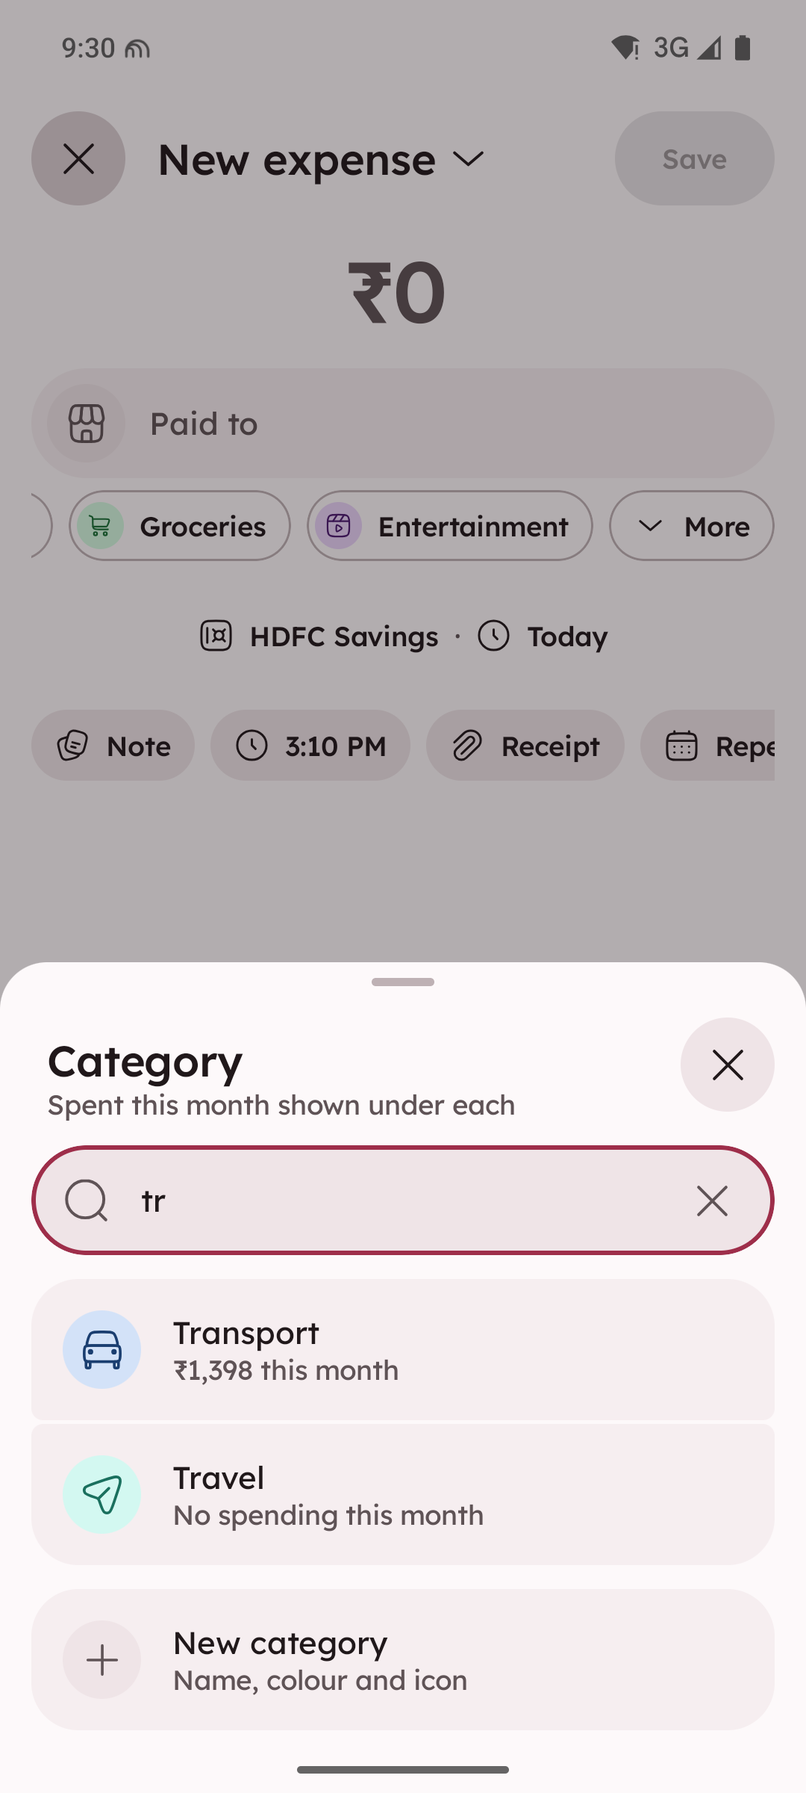
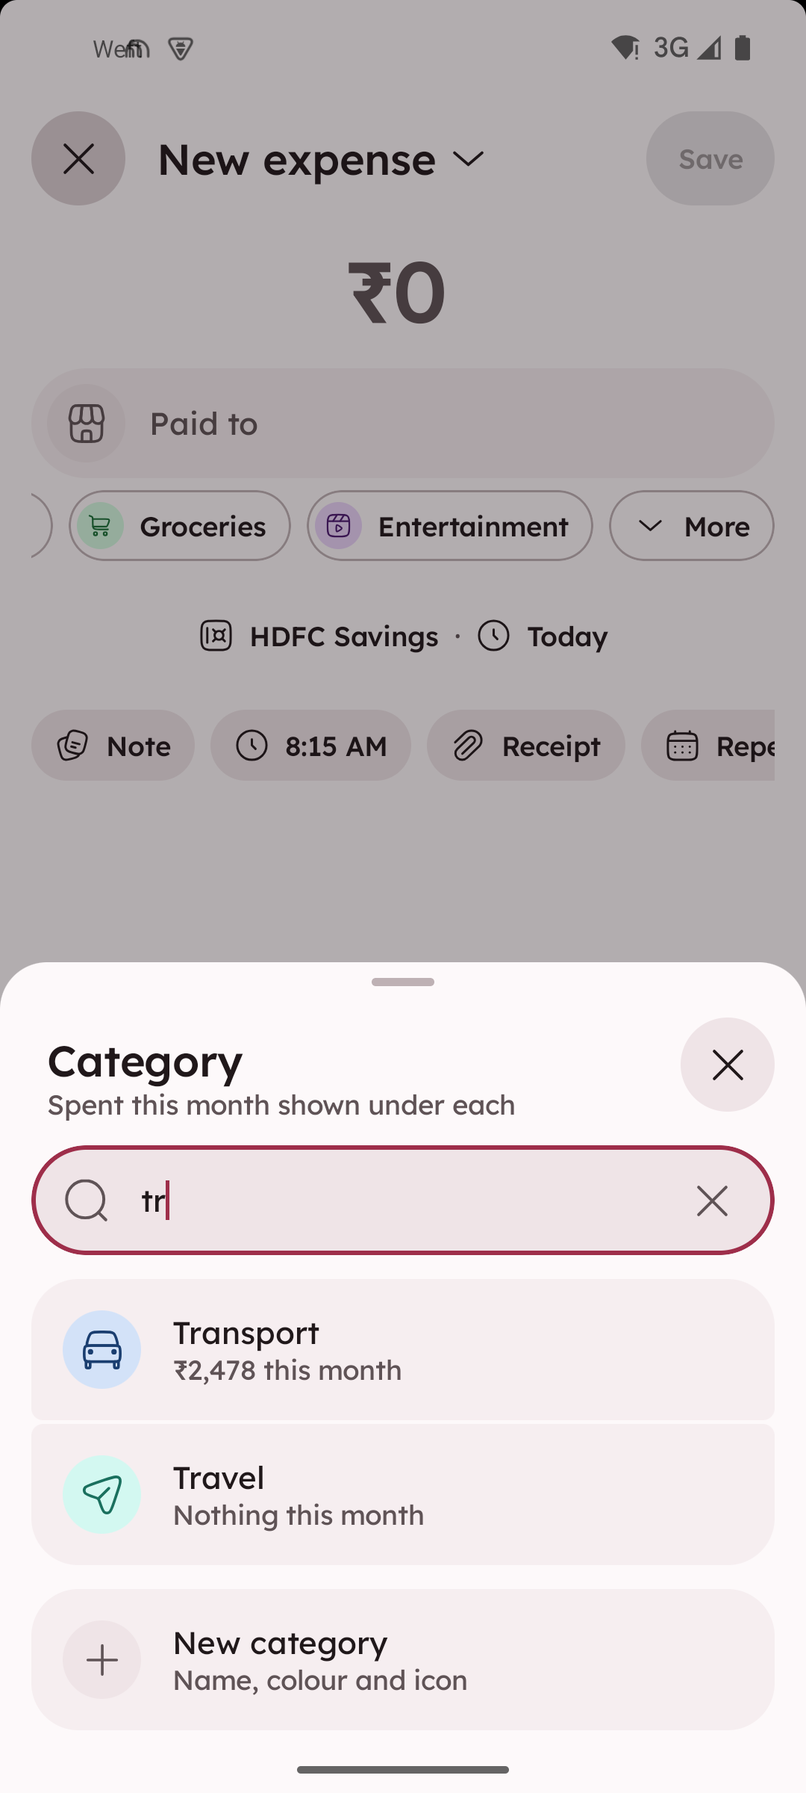
Multi-currency totals, Burrow CSV round trip, goal money back, 170 empty state
- baseAmount is the main-currency value at the typed-in rate (save, import, a one-off repair at
  start); spent, spent by category and the stats stream (Today, Insights, Sunday review) add it.
- Import of Burrow's export: REFUND stays a refund, TRANSFER "A → B" a transfer, ADJUST_* fixes,
  GOAL rows skipped; the export writes an excluded column for lent / borrowed money.
- Deleting a goal removes its Add money transfers (the money goes back); Added rows open their
  transaction, whose Delete takes the money out with Undo.
- 170: the Ghost with one tonal button (Teach N it missed, else Back to Today).
- Smoke: savings (Once, Add money → new deposit, Edit, Every month, Any time + market value);
  capture.py: the Not understood row opens Teach, the lowest Food & drinks chip.

diff --git a/app/src/main/java/app/burrow/money/domain/Import.kt b/app/src/main/java/app/burrow/money/domain/Import.kt
@@ -16,7 +16,7 @@ import java.util.Locale
 enum class ImportSource { CASHEW, WALNUT, MONEY_MANAGER, CSV }
 
 /** What a column holds. Only DATE and AMOUNT (or DEBIT / CREDIT) are needed. */
-enum class ImportField { DATE, TIME, AMOUNT, DEBIT, CREDIT, TYPE, PAYEE, CATEGORY, ACCOUNT, NOTE, CURRENCY }
+enum class ImportField { DATE, TIME, AMOUNT, DEBIT, CREDIT, TYPE, PAYEE, CATEGORY, ACCOUNT, NOTE, CURRENCY, EXCLUDED }
 
 /** One payment read from the file. [amount] is positive, in minor units; [income] gives the side. */
 data class ImportRow(
@@ -30,6 +30,12 @@ data class ImportRow(
     val currency: String?,
     /** Cashew's "Balance Correction": money moved between the user's own accounts, never spending. */
     val adjustment: Boolean = false,
+    /** Burrow's own export: money back for a purchase (lowers its category, never income). */
+    val refund: Boolean = false,
+    /** Burrow's own export: a transfer, "HDFC → Kotak", [account] the one it left and this the one it went to. */
+    val toAccount: String? = null,
+    /** Burrow's own export: kept out of spending and income (lent or borrowed money). */
+    val excluded: Boolean = false,
 )
 
 /** Two balance corrections that are one move between accounts: [from] lost the money, [to] got it. */
@@ -49,7 +55,7 @@ data class ParsedImport(
     /** Their category names used mostly for money in: they become income categories. */
     val incomeCategories: Set<String> get() = rows.filter { !it.adjustment && it.category != null }.groupBy { it.category!! }
         .filterValues { r -> r.count { it.income } * 2 > r.size }.keys
-    val accounts get() = rows.mapNotNull { it.account?.takeIf(String::isNotBlank) }.groupingBy { it }.eachCount()
+    val accounts get() = rows.flatMap { listOfNotNull(it.account, it.toAccount) }.filter(String::isNotBlank).groupingBy { it }.eachCount()
 }
 
 object Importer {
@@ -66,6 +72,7 @@ object Importer {
         ImportField.ACCOUNT to listOf("account", "account name", "bank", "wallet", "payment mode", "mode"),
         ImportField.NOTE to listOf("note", "notes", "memo", "remark", "remarks", "comment", "tags"),
         ImportField.CURRENCY to listOf("currency", "currency code"),
+        ImportField.EXCLUDED to listOf("excluded"),
     )
 
     /** Splits the file into rows of cells: commas, semicolons or tabs, quotes and line breaks in quotes. */
@@ -143,8 +150,14 @@ object Importer {
 
     private fun readRow(cell: (ImportField) -> String?, signedFile: Boolean, digitsOf: (String?) -> Int, source: ImportSource): ImportRow? {
         val typeText = cell(ImportField.TYPE)?.lowercase(Locale.ROOT)
-        if (typeText != null && "transfer" in typeText) return null // moving money between accounts isn't a payment
-        if (typeText != null && typeText.startsWith("adjust")) return null // Burrow's "Fix balance" rows
+        // Burrow's own export (QA 12 Nov): a transfer names both accounts ("HDFC → Kotak") and comes back as
+        // one; another app's transfer row, or one into a goal (not here any more), isn't a payment.
+        val arrow = cell(ImportField.ACCOUNT)?.split(" → ")?.takeIf { it.size == 2 && it.all(String::isNotBlank) }
+        val transfer = typeText != null && "transfer" in typeText
+        if (transfer && arrow == null) return null
+        if (typeText == "goal") return null
+        // Burrow's "Fix balance" rows: corrections of one account, never spending.
+        val fix = typeText != null && typeText.startsWith("adjust")
         val currency = cell(ImportField.CURRENCY)?.uppercase(Locale.ROOT)?.takeIf { it.length == 3 }
         val digits = digitsOf(currency)
         val debit = cell(ImportField.DEBIT)?.let { amount(it, digits) }?.takeIf { it != 0L }
@@ -152,8 +165,11 @@ object Importer {
         val signed = cell(ImportField.AMOUNT)?.let { amount(it, digits) }
         val value = signed ?: debit?.let { -kotlin.math.abs(it) } ?: credit?.let { kotlin.math.abs(it) } ?: return null
         if (value == 0L) return null
+        val refund = typeText == "refund"
         val income = when {
-            typeText != null && typeText in listOf("true", "income", "credit", "cr", "in", "inc", "deposit", "received", "refund") -> true
+            fix -> typeText == "adjust_up"
+            transfer || refund -> false
+            typeText != null && typeText in listOf("true", "income", "credit", "cr", "in", "inc", "deposit", "received") -> true
             typeText != null && (typeText in listOf("false", "expense", "expenses", "exp", "exp.", "debit", "dr", "out", "withdrawal", "spent", "paid")) -> false
             typeText != null && typeText.startsWith("inc") -> true
             typeText != null && typeText.startsWith("exp") -> false
@@ -169,8 +185,11 @@ object Importer {
             date = at, amount = kotlin.math.abs(value), income = income,
             payee = cell(ImportField.PAYEE), category = category, account = cell(ImportField.ACCOUNT),
             note = cell(ImportField.NOTE), currency = currency,
-            adjustment = source == ImportSource.CASHEW && category.equals(CASHEW_BALANCE_CORRECTION, ignoreCase = true),
-        )
+            adjustment = fix || (source == ImportSource.CASHEW && category.equals(CASHEW_BALANCE_CORRECTION, ignoreCase = true)),
+            refund = refund,
+            toAccount = arrow?.get(1)?.trim(),
+            excluded = cell(ImportField.EXCLUDED)?.lowercase(Locale.ROOT) in listOf("yes", "true", "1"),
+        ).let { r -> if (arrow != null) r.copy(account = arrow[0].trim(), category = null) else r }
     }
 
     /**

diff --git a/app/src/main/java/app/burrow/money/data/NextRepository.kt b/app/src/main/java/app/burrow/money/data/NextRepository.kt
@@ -21,6 +21,11 @@ import java.time.ZoneId
  */
 fun expandForStats(views: List<TxnView>, parts: List<SplitView>): List<TxnView> {
     val byTxn = parts.groupBy { it.split.txnId }
+    // Every total adds these: in the main currency (baseAmount), so $50 isn't counted as ₹50 (QA 12 Nov).
+    return expandParts(views, byTxn).map { v -> if (v.txn.amount == v.txn.baseAmount) v else v.copy(txn = v.txn.copy(amount = v.txn.baseAmount)) }
+}
+
+private fun expandParts(views: List<TxnView>, byTxn: Map<Long, List<SplitView>>): List<TxnView> {
     return views.flatMap { v ->
         val mine = byTxn[v.txn.id]
         when {
@@ -202,12 +207,20 @@ class NextRepository(private val db: BurrowDatabase, private val money: MoneyRep
                 at = r.date.atZone(zone).toInstant().toEpochMilli(), source = "IMPORT", createdAt = now, updatedAt = now,
             )
             val rows = plan.rows.filter { it !in skip }
-            val payments = rows.filter { !it.adjustment }.mapNotNull { r ->
+            val payments = rows.filter { !it.adjustment && it.toAccount == null }.mapNotNull { r ->
                 val accountId = accountOf(r) ?: return@mapNotNull null
                 val kind = if (r.income) CategoryKind.INCOME else CategoryKind.EXPENSE
-                // A row on the other side of its category (one refund in "Misc") goes to Other.
+                // A row on the other side of its category goes to Other. A refund keeps its spending
+                // category and stays a refund (it lowers that spending; never income).
                 val cat = r.category?.let { categoryFor[it] }?.takeIf { kindOf[it] == kind } ?: otherOf[kind]
-                base(r, if (r.income) TxnType.INCOME else TxnType.EXPENSE, accountId).copy(categoryId = cat)
+                val type = when { r.refund -> TxnType.REFUND; r.income -> TxnType.INCOME; else -> TxnType.EXPENSE }
+                base(r, type, accountId).copy(categoryId = cat, excludeFromStats = r.excluded)
+            }
+            // Burrow's own transfers ("HDFC → Kotak"): both accounts named on one row.
+            val ownTransfers = rows.filter { it.toAccount != null }.mapNotNull { r ->
+                val from = accountOf(r) ?: return@mapNotNull null
+                val to = accountFor[r.toAccount] ?: return@mapNotNull null
+                if (from == to) null else base(r, TxnType.TRANSFER, from).copy(toAccountId = to)
             }
             // Moves between their own accounts: transfers when both halves are here, else "Fix balance".
             val (pairs, single) = Importer.pairTransfers(rows)
@@ -220,7 +233,8 @@ class NextRepository(private val db: BurrowDatabase, private val money: MoneyRep
                 val accountId = accountOf(r) ?: return@mapNotNull null
                 base(r, if (r.income) TxnType.ADJUST_UP else TxnType.ADJUST_DOWN, accountId)
             }
-            val txns = payments + transfers + fixes
+            // In the main currency for every total (a file in $ or € counts at the typed-in rate).
+            val txns = (payments + ownTransfers + transfers + fixes).map { money.withBase(it) }
             if (txns.isNotEmpty()) db.txns().insertAll(txns)
             added = txns.size
             db.next().putImportMaps(
@@ -232,9 +246,10 @@ class NextRepository(private val db: BurrowDatabase, private val money: MoneyRep
         return added
     }
 
-    /** App start: parts of payments that no longer exist. */
+    /** App start: parts of payments that no longer exist; payments in another currency saved before baseAmount was set. */
     suspend fun cleanOrphans() {
         db.next().cleanOrphanSplits()
         db.cards().cleanOrphans()
+        money.fixBaseAmounts()
     }
 }

diff --git a/app/src/main/java/app/burrow/money/data/Daos.kt b/app/src/main/java/app/burrow/money/data/Daos.kt
@@ -214,6 +214,13 @@ interface CategoryDao {
 
 @Dao
 interface TxnDao {
+    /** Payments in [currency] whose baseAmount was never converted (saved before it was). */
+    @Query("SELECT * FROM TxnEntity WHERE currency = :currency AND baseAmount = amount AND amount != 0")
+    suspend fun unconverted(currency: String): List<TxnEntity>
+
+    @Query("UPDATE TxnEntity SET baseAmount = :base WHERE id = :id")
+    suspend fun setBase(id: Long, base: Long)
+
     /** Every transaction that paid one due date (an EMI's transfer and its interest). */
     @Query("SELECT * FROM TxnEntity WHERE billOccurrenceId = :occurrenceId")
     suspend fun byOccurrence(occurrenceId: Long): List<TxnEntity>
@@ -264,18 +271,18 @@ interface TxnDao {
     suspend fun get(id: Long): TxnEntity?
 
     /** Spending in [from, to): expenses less refunds. */
-    @Query("SELECT COALESCE(SUM(CASE WHEN type = 'REFUND' THEN -amount ELSE amount END), 0) FROM TxnEntity WHERE type IN ('EXPENSE', 'REFUND') AND excludeFromStats = 0 AND status = 'POSTED' AND at >= :from AND at < :to")
+    @Query("SELECT COALESCE(SUM(CASE WHEN type = 'REFUND' THEN -baseAmount ELSE baseAmount END), 0) FROM TxnEntity WHERE type IN ('EXPENSE', 'REFUND') AND excludeFromStats = 0 AND status = 'POSTED' AND at >= :from AND at < :to")
     fun spent(from: Long, to: Long): Flow<Long>
 
     /** Spending by category: a split payment counts in each part's category; refunds lower theirs. */
     @Query(
         """
         SELECT categoryId, SUM(total) AS total FROM (
-            SELECT t.categoryId AS categoryId, CASE WHEN t.type = 'REFUND' THEN -t.amount ELSE t.amount END AS total FROM TxnEntity t
+            SELECT t.categoryId AS categoryId, CASE WHEN t.type = 'REFUND' THEN -t.baseAmount ELSE t.baseAmount END AS total FROM TxnEntity t
             WHERE t.type IN ('EXPENSE', 'REFUND') AND t.excludeFromStats = 0 AND t.status = 'POSTED' AND t.at >= :from AND t.at < :to
               AND NOT EXISTS (SELECT 1 FROM SplitEntity s WHERE s.txnId = t.id)
             UNION ALL
-            SELECT s.categoryId AS categoryId, s.amount AS total FROM SplitEntity s JOIN TxnEntity t ON t.id = s.txnId
+            SELECT s.categoryId AS categoryId, CASE WHEN t.amount = 0 THEN s.amount ELSE s.amount * t.baseAmount / t.amount END AS total FROM SplitEntity s JOIN TxnEntity t ON t.id = s.txnId
             WHERE t.type = 'EXPENSE' AND t.excludeFromStats = 0 AND t.status = 'POSTED' AND t.at >= :from AND t.at < :to
         ) WHERE categoryId IS NOT NULL GROUP BY categoryId
         """,

diff --git a/app/src/main/java/app/burrow/money/data/MoneyRepository.kt b/app/src/main/java/app/burrow/money/data/MoneyRepository.kt
@@ -292,7 +292,8 @@ class MoneyRepository(
      * Saves a new or edited transaction and returns its id. The first real entry removes the sample
      * month (CLAUDE.md § Behaviour), keeping any sample account the entry uses.
      */
-    suspend fun save(txn: TxnEntity): Long {
+    suspend fun save(input: TxnEntity): Long {
+        val txn = withBase(input)
         val before = if (txn.id != 0L) db.txns().get(txn.id) else null
         val id = db.withTransaction {
             val id = db.txns().upsert(txn).let { if (it == -1L) txn.id else it }
@@ -351,6 +352,29 @@ class MoneyRepository(
     }
 
     suspend fun saveCategory(c: CategoryEntity): Long = db.categories().upsert(c).let { if (it == -1L) c.id else it }
+
+    /**
+     * [txn] with its baseAmount in the main currency, at the rate typed in Customise › Currency (no
+     * rate: as it is, like net worth). Every spending and income total adds baseAmount.
+     */
+    suspend fun withBase(txn: TxnEntity): TxnEntity {
+        val main = settings.settings.first().mainCurrency
+        if (txn.currency == main) return if (txn.baseAmount == txn.amount) txn else txn.copy(baseAmount = txn.amount)
+        val rate = db.extras().rate(txn.currency)?.perPrimary
+        val base = app.burrow.money.domain.Fx.toMain(txn.amount, txn.currency, main, rate) ?: return txn
+        return txn.copy(baseAmount = base)
+    }
+
+    /** Once at start: payments in another currency saved with baseAmount = amount get their converted value. */
+    suspend fun fixBaseAmounts() {
+        val main = settings.settings.first().mainCurrency
+        for (r in db.extras().rates().first()) {
+            if (r.currency == main) continue
+            for (t in db.txns().unconverted(r.currency)) {
+                app.burrow.money.domain.Fx.toMain(t.amount, t.currency, main, r.perPrimary)?.let { b -> if (b != t.baseAmount) db.txns().setBase(t.id, b) }
+            }
+        }
+    }
 
     /** Deletes a category: its transactions and bills move to Other, its budgets go. */
     suspend fun deleteCategory(id: Long) = db.withTransaction {

diff --git a/app/src/main/java/app/burrow/money/ui/plan/PlanDetailScreens.kt b/app/src/main/java/app/burrow/money/ui/plan/PlanDetailScreens.kt
@@ -201,7 +201,7 @@ fun BudgetScreen(vm: BudgetViewModel, onBack: () -> Unit, onOpenCategory: (Long)
  * was added and from where, Add money (35).
  */
 @Composable
-fun GoalScreen(vm: GoalViewModel, onBack: () -> Unit, onEdit: (Long) -> Unit) {
+fun GoalScreen(vm: GoalViewModel, onBack: () -> Unit, onEdit: (Long) -> Unit, onOpenTxn: (Long) -> Unit = {}) {
     val state by vm.state.collectAsStateWithLifecycle()
     val s = state ?: return
     val money = LocalMoney.current
@@ -262,6 +262,8 @@ fun GoalScreen(vm: GoalViewModel, onBack: () -> Unit, onEdit: (Long) -> Unit) {
                         supporting = stringResource(R.string.from_account, from?.name.orEmpty()),
                         lead = { CategoryCircle(from?.icon, from?.colorHue) },
                         trailing = { AmountTrailing(money.plain(t.amount)) },
+                        // Its own page: Delete there takes the money back out of the goal, with Undo.
+                        onClick = { onOpenTxn(t.id) },
                     )
                 }
             }
@@ -277,7 +279,8 @@ fun GoalScreen(vm: GoalViewModel, onBack: () -> Unit, onEdit: (Long) -> Unit) {
     }
     if (confirmDelete) {
         ConfirmDialog(
-            painterResource(R.drawable.ic_delete_regular), stringResource(R.string.delete_goal_title), stringResource(R.string.delete_goal_text),
+            painterResource(R.drawable.ic_delete_regular), stringResource(R.string.delete_goal_title),
+            if (s.line.saved > 0) stringResource(R.string.delete_goal_text_money, money.plain(s.line.saved)) else stringResource(R.string.delete_goal_text_empty),
             stringResource(R.string.delete), stringResource(R.string.cancel),
             onConfirm = { confirmDelete = false; vm.delete(onBack) }, onDismiss = { confirmDelete = false },
         )

diff --git a/app/src/test/java/app/burrow/money/domain/ImportTest.kt b/app/src/test/java/app/burrow/money/domain/ImportTest.kt
@@ -187,4 +187,30 @@ class ImportTest {
         assertNull(Importer.guessIcon("Misc", false))
         assertNull(Importer.guessIcon("Other stuff", false))
     }
+
+    /** Burrow's own export comes back as it was (QA 12 Nov): refunds, transfers, fixes, lent money. */
+    @Test fun burrowsOwnExportRoundTrips() {
+        val csv = """
+            date,type,payee,amount,currency,category,account,note,excluded
+            2026-11-01 10:00,EXPENSE,Croma,2000.00,INR,Shopping,HDFC Savings,,
+            2026-11-03 10:00,REFUND,Croma,500.00,INR,Shopping,HDFC Savings,,
+            2026-11-04 10:00,TRANSFER,,10000.00,INR,,HDFC Savings → Kotak,,
+            2026-11-05 10:00,GOAL,,3000.00,INR,,HDFC Savings → Trip,,
+            2026-11-06 10:00,ADJUST_UP,Balance fixed,120.00,INR,,Kotak,,yes
+            2026-11-07 10:00,EXPENSE,Ravi,1000.00,INR,Other,HDFC Savings,Lent,yes
+        """.trimIndent()
+        val p = Importer.parse(csv, ImportSource.CSV, { 2 })
+        assertEquals(5, p.rows.size) // the goal row stays out: a goal isn't an account
+        val refund = p.rows.first { it.refund }
+        assertEquals(false, refund.income)
+        assertEquals("Shopping", refund.category)
+        val transfer = p.rows.first { it.toAccount != null }
+        assertEquals("HDFC Savings", transfer.account)
+        assertEquals("Kotak", transfer.toAccount)
+        val fix = p.rows.first { it.adjustment }
+        assertEquals(true, fix.income)
+        val lent = p.rows.first { it.payee == "Ravi" }
+        assertEquals(true, lent.excluded)
+        assertEquals(setOf("HDFC Savings", "Kotak"), p.accounts.keys)
+    }
 }

diff --git a/app/src/main/java/app/burrow/money/ui/review/ReviewScreen.kt b/app/src/main/java/app/burrow/money/ui/review/ReviewScreen.kt
@@ -42,7 +42,6 @@ import app.burrow.money.ui.components.Chip
 import app.burrow.money.ui.components.EmptyState
 import app.burrow.money.ui.components.Ghost
 import app.burrow.money.ui.components.IconCircle
-import app.burrow.money.ui.components.LinkButton
 import app.burrow.money.ui.components.ListGroup
 import app.burrow.money.ui.components.ListRow
 import app.burrow.money.ui.components.LocalSnackbar
@@ -174,12 +173,10 @@ private fun ToReviewTab(
             shape = { Ghost(painterResource(R.drawable.ic_task_alt_regular)) },
             title = stringResource(R.string.all_caught_up),
             line = stringResource(R.string.all_caught_up_line),
-            // Back to Today, and under it the messages it missed (170) when there are any.
+            // The one next step (170, user 13 Nov): the messages it missed when there are some, else back to Today.
             button = {
-                Column(horizontalAlignment = androidx.compose.ui.Alignment.CenterHorizontally) {
-                    BurrowButton(stringResource(R.string.back_to_today), onBack, kind = ButtonKind.TONAL)
-                    if (missed > 0) LinkButton(pluralStringResource(R.plurals.teach_n_missed, missed, missed), onMissed, Modifier.padding(top = Space.small))
-                }
+                if (missed > 0) BurrowButton(pluralStringResource(R.plurals.teach_n_missed, missed, missed), onMissed, kind = ButtonKind.TONAL)
+                else BurrowButton(stringResource(R.string.back_to_today), onBack, kind = ButtonKind.TONAL)
             },
         )
         return

diff --git a/app/src/main/java/app/burrow/money/data/CsvTransfer.kt b/app/src/main/java/app/burrow/money/data/CsvTransfer.kt
@@ -20,10 +20,13 @@ class CsvTransfer(private val money: MoneyRepository, private val db: BurrowData
         val rows = money.latest().first().filter { !it.txn.isSample }.map { t ->
             val x = t.txn
             listOf(
-                stamp.format(Instant.ofEpochMilli(x.at).atZone(zone)), x.type, x.payee.orEmpty(),
+                // Money put into a goal is its own type: a goal isn't an account to import into.
+                stamp.format(Instant.ofEpochMilli(x.at).atZone(zone)), if (x.goalId != null) "GOAL" else x.type, x.payee.orEmpty(),
                 java.math.BigDecimal.valueOf(x.amount, minorDigits(x.currency)).toPlainString(), x.currency,
                 t.categoryName.orEmpty(), if (x.type == TxnType.TRANSFER) "${t.accountName} → ${t.toAccountName ?: t.goalName.orEmpty()}" else t.accountName,
                 x.note.orEmpty(),
+                // Lent or borrowed: kept out of spending and income, also after importing it back.
+                if (x.excludeFromStats) "yes" else "",
             )
         }
         Csv.write(rows)

diff --git a/app/src/test/java/app/burrow/money/data/ExpandForStatsTest.kt b/app/src/test/java/app/burrow/money/data/ExpandForStatsTest.kt
@@ -32,4 +32,14 @@ class ExpandForStatsTest {
         val v = listOf(view(1, TxnType.INCOME, 100, 5), view(2, TxnType.TRANSFER, 50, null))
         assertEquals(v, expandForStats(v, listOf(part(9, 1, 1, "orphan"))))
     }
+
+    /** A payment in another currency counts at its main-currency value (QA 12 Nov: $50 counted as ₹50). */
+    @Test fun otherCurrencyCountsInTheMainOne() {
+        val usd = view(9, TxnType.EXPENSE, 50_00, 1).let { it.copy(txn = it.txn.copy(currency = "USD", baseAmount = 4_200_00)) }
+        val out = expandForStats(listOf(usd), emptyList()).single()
+        org.junit.Assert.assertEquals(4_200_00L, out.txn.amount)
+        // A split in dollars: each part at its share of the converted amount.
+        val parts = listOf(part(9, 1, 30_00, "Food"), part(9, 2, 20_00, "Fun"))
+        org.junit.Assert.assertEquals(listOf(2_520_00L, 1_680_00L), expandForStats(listOf(usd), parts).map { it.txn.amount })
+    }
 }

diff --git a/app/src/main/java/app/burrow/money/data/PlanRepository.kt b/app/src/main/java/app/burrow/money/data/PlanRepository.kt
@@ -369,7 +369,14 @@ class PlanRepository(
 
     suspend fun saveGoal(goal: GoalEntity): Long = db.goals().upsert(goal).let { if (it == -1L) goal.id else it }
 
-    suspend fun deleteGoal(id: Long) = db.goals().archive(id)
+    /**
+     * Deleting a goal gives its money back: its Add money transfers go, so each account has again what
+     * it had (they stayed out of the accounts but in net worth, with nothing showing them: QA 12 Nov).
+     */
+    suspend fun deleteGoal(id: Long) = db.withTransaction {
+        db.txns().deleteIds(db.txns().forGoal(id).first().map { it.id })
+        db.goals().archive(id)
+    }
 
     /**
      * "Add money": a transfer from [fromAccountId] into the goal, not spending. Marks the goal

diff --git a/app/src/main/java/app/burrow/money/ui/nav/BurrowNavHost.kt b/app/src/main/java/app/burrow/money/ui/nav/BurrowNavHost.kt
@@ -348,7 +348,7 @@ fun BurrowNavHost(container: AppContainer, settings: Settings, open: OpenFromNot
                     composable<GoalRoute> { e ->
                         val id = e.toRoute<GoalRoute>().id
                         val vm = viewModel { GoalViewModel(container.plan, container.money, id) }
-                        GoalScreen(vm, onBack = { nav.popBackStack() }, onEdit = { nav.navigate(NewGoalRoute(it)) })
+                        GoalScreen(vm, onBack = { nav.popBackStack() }, onEdit = { nav.navigate(NewGoalRoute(it)) }, onOpenTxn = openTxn)
                     }
                     composable<NewGoalRoute> { e ->
                         val id = e.toRoute<NewGoalRoute>().editId

diff --git a/app/src/main/java/app/burrow/money/domain/Secrets.kt b/app/src/main/java/app/burrow/money/domain/Secrets.kt
@@ -80,7 +80,7 @@ object BackupCrypto {
 
 /** CSV of transactions (More › Export or import CSV): date, type, payee, amount, currency, category, account, note. */
 object Csv {
-    val HEADER = listOf("date", "type", "payee", "amount", "currency", "category", "account", "note")
+    val HEADER = listOf("date", "type", "payee", "amount", "currency", "category", "account", "note", "excluded")
 
     fun write(rows: List<List<String>>): String = (listOf(HEADER) + rows).joinToString("\r\n") { r -> r.joinToString(",") { quote(it) } } + "\r\n"
 
